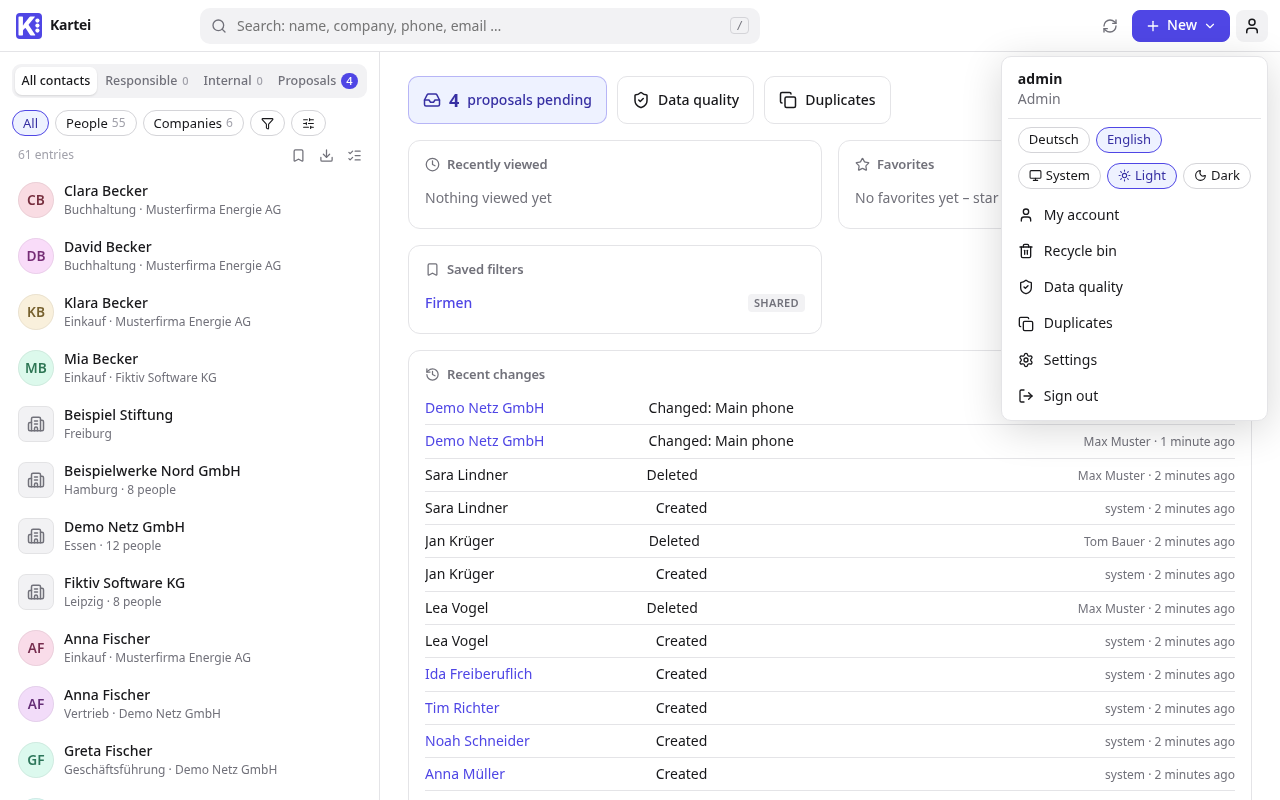
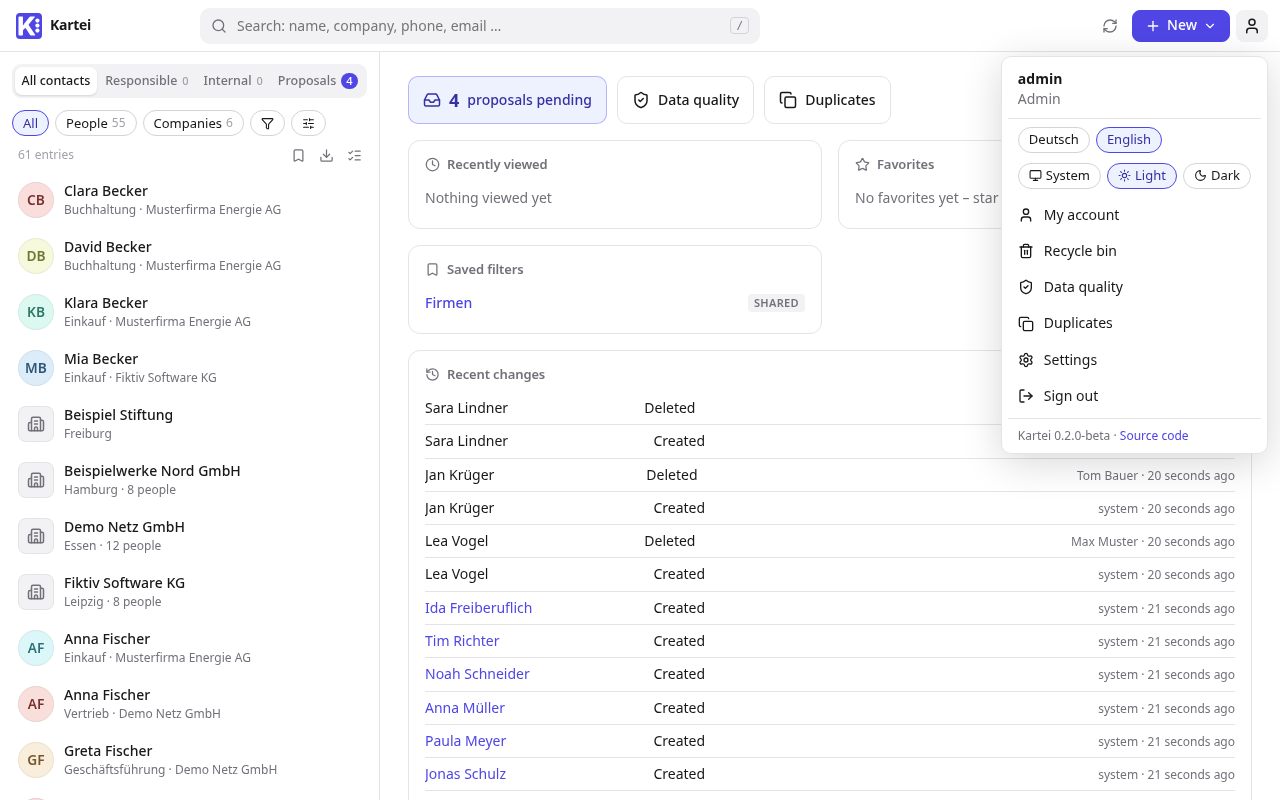
Version and source link in the user menu; upgrade test in CI; changelog for 0.2.0-beta (#8)

diff --git a/frontend/src/App.svelte b/frontend/src/App.svelte
@@ -274,6 +274,9 @@
             <a href="/settings/fields" onclick={() => document.getElementById('user-menu')?.hidePopover()}><Settings size={16} />{t('top.settings')}</a>
           {/if}
           <button onclick={() => store.logout()}><LogOut size={16} />{t('top.logout')}</button>
+          {#if store.about}
+            <div class="about">Kartei {store.about.version} · <a href={store.about.source} target="_blank" rel="noopener">{t('top.source')}</a></div>
+          {/if}
         </div>
       </div>
     </header>
@@ -478,6 +481,9 @@
   .save-row { display: flex; align-items: center; gap: 8px; justify-content: flex-end; }
   .save-row label { display: flex; align-items: center; gap: 6px; margin-right: auto; font-size: 13px; }
   .list { flex: 1; min-height: 0; }
+  .about { padding: 8px 10px 2px; border-top: 1px solid var(--border); margin-top: 4px; font-size: 12px; color: var(--muted); }
+  .about a { display: inline; width: auto; padding: 0; color: var(--accent); }
+  .about a:hover { background: none; text-decoration: underline; }
   .newprops { display: flex; flex-direction: column; gap: 2px; padding: 0 8px 6px; border-bottom: 1px solid var(--border); margin-bottom: 4px; }
   .newprops a { display: flex; align-items: center; gap: 8px; padding: 7px 10px; border-radius: 8px; color: var(--text); }
   .newprops a:hover, .newprops a.on { background: var(--panel-2); text-decoration: none; }

diff --git a/frontend/src/lib/store.svelte.ts b/frontend/src/lib/store.svelte.ts
@@ -27,6 +27,8 @@ interface Snapshot {
 class Store {
   status = $state<'loading' | 'login' | 'ready'>('loading')
   user = $state.raw<User | null>(null)
+  /** running version and source code (user menu), from the session */
+  about = $state.raw<{ version: string; source: string } | null>(null)
   defaultLang = $state<Lang>('de')
   fields = $state.raw<Field[]>([])
   /** field sections in their order */
@@ -97,7 +99,7 @@ class Store {
     // 1) render from cache immediately, 2) check session, 3) fetch deltas
     const cached = (await idbGet(CACHE_KEY).catch(() => undefined)) as Snapshot | undefined
     if (cached) this.apply(cached)
-    let session: { authenticated: boolean; default_language: Lang; user?: User }
+    let session: { authenticated: boolean; default_language: Lang; user?: User; version?: string; source?: string }
     try {
       session = await get('/api/session')
     } catch {
@@ -112,6 +114,7 @@ class Store {
       this.cursor = ''
     }
     this.user = session.user!
+    this.about = { version: session.version ?? '', source: session.source ?? '' }
     this.applyLang()
     await this.sync()
     this.status = 'ready'

diff --git a/frontend/src/i18n/de.ts b/frontend/src/i18n/de.ts
@@ -976,4 +976,5 @@ export default {
   'proposal.back': "Zur Startseite",
   'proposal.form_hint_new': "Der Kontakt wird nicht direkt angelegt, sondern einem Bearbeiter zur Freigabe vorgelegt.",
   'audit.type.proposal': "Vorschlag",
+  'top.source': "Quellcode",
 } as Record<string, string>

diff --git a/frontend/src/i18n/en.ts b/frontend/src/i18n/en.ts
@@ -976,4 +976,5 @@ export default {
   'proposal.back': "Back to the start page",
   'proposal.form_hint_new': "The contact is not created directly; it goes to a maintainer for approval.",
   'audit.type.proposal': "Proposal",
+  'top.source': "Source code",
 } as Record<string, string>

diff --git a/.github/upgrade-fingerprint.py b/.github/upgrade-fingerprint.py
@@ -1,0 +1,29 @@
+# Fingerprint of a Kartei database for the upgrade test (CI job "Upgrade from the latest release"):
+#   python manage.py shell < upgrade-fingerprint.py
+# Runs on the old release and, after the migrations, on the new code; both must print the same line.
+# Only uses what every release has, so the old image can run it too.
+import hashlib
+import json
+
+from django.contrib.auth.models import User
+from kartei.models import AuditEntry, FieldDef, Proposal, Record, Settings
+
+
+def digest(rows):
+    return hashlib.sha256(json.dumps(rows, sort_keys=True, default=str).encode()).hexdigest()[:16]
+
+
+s = Settings.get()
+print("FINGERPRINT " + json.dumps({
+    "records": Record.objects.count(),
+    "records_digest": digest(sorted(
+        [str(uid), kind, version, first, last, name, str(company), data, str(deleted)]
+        for uid, kind, version, first, last, name, company, data, deleted in Record.objects.values_list(
+            "uid", "kind", "version", "first_name", "last_name", "name", "company__uid", "data", "deleted_at"))),
+    "proposals": sorted([kind, status, str(uid)] for kind, status, uid in
+                        Proposal.objects.values_list("kind", "status", "record__uid")),
+    "users": sorted(User.objects.values_list("username", flat=True)),
+    "fields": sorted(FieldDef.objects.values_list("key", flat=True)),
+    "audit_entries": AuditEntry.objects.count(),
+    "settings": [s.default_language, s.review_mode, s.review_interval_months],
+}, sort_keys=True))

diff --git a/backend/kartei/tests.py b/backend/kartei/tests.py
@@ -8,7 +8,7 @@ from unittest import mock
 
 from django.contrib.auth.hashers import make_password
 from django.contrib.auth.models import User
-from django.test import TestCase
+from django.test import TestCase, override_settings
 from django.utils import timezone
 
 from pathlib import Path
@@ -432,6 +432,15 @@ class PostalCodeTests(ApiTestBase):
         csv_data = "ID;Vorname;Nachname;Firma;PLZ\nP-1;A;B;;01067\n".encode()
         import_test_csv(csv_data, dry_run=False)
         self.assertEqual(Record.objects.get(legacy_id="P-1").data["work_zip"], "01067")
+
+
+class SessionTests(ApiTestBase):
+    @override_settings(KARTEI_VERSION="9.9.9-test", KARTEI_SOURCE_URL="https://example.org/fork")
+    def test_version_and_source_only_when_signed_in(self):
+        self.assertNotIn("version", self.client.get("/api/session").json())
+        self.as_("read")
+        s = self.client.get("/api/session").json()
+        self.assertEqual((s["version"], s["source"]), ("9.9.9-test", "https://example.org/fork"))
 
 
 class UserFieldTests(ApiTestBase):

diff --git a/backend/config/settings.py b/backend/config/settings.py
@@ -62,6 +62,11 @@ TEMPLATES = [{
 }]
 
 # an empty DATABASE_URL counts as unset (dj_database_url would fall back to a dummy backend)
+# shown in the user menu: the release tag (set by the image build) and where the source code is (AGPL: forks that run
+# a modified version point this at their code)
+KARTEI_VERSION = os.environ.get("KARTEI_VERSION") or "dev"
+KARTEI_SOURCE_URL = os.environ.get("KARTEI_SOURCE_URL") or "https://github.com/undone37/Kartei"
+
 DATABASES = {"default": dj_database_url.parse(
     os.environ.get("DATABASE_URL") or f"sqlite:///{BASE_DIR / 'db.sqlite3'}", conn_max_age=600,
     conn_health_checks=True)}  # a reused connection is checked first (e.g. after a cluster failover)

diff --git a/backend/kartei/api.py b/backend/kartei/api.py
@@ -6,6 +6,7 @@ import uuid
 from datetime import timedelta
 from functools import wraps
 
+from django.conf import settings as dj
 from django.contrib.auth import authenticate, login, logout
 from django.contrib.auth.hashers import make_password
 from django.contrib.auth.models import User
@@ -168,7 +169,7 @@ def session(request):
     s = Settings.get()
     out = {"default_language": s.default_language, "authenticated": request.user.is_authenticated}
     if request.user.is_authenticated:
-        out["user"] = ser_user(request.user)
+        out |= {"user": ser_user(request.user), "version": dj.KARTEI_VERSION, "source": dj.KARTEI_SOURCE_URL}
     return JsonResponse(out)
 
 

diff --git a/.github/upgrade-smoke.py b/.github/upgrade-smoke.py
@@ -1,0 +1,9 @@
+# After the upgrade test's migrations: the new code serves the old data (python manage.py shell < upgrade-smoke.py)
+from django.test import Client
+
+c = Client(HTTP_HOST="localhost")
+assert c.post("/api/login", {"username": "mmuster", "password": "demo12345"}, content_type="application/json").status_code == 200
+b = c.get("/api/bootstrap").json()
+assert len(b["records"]) > 50 and len(b["proposals"]) >= 3, (len(b["records"]), len(b["proposals"]))
+assert c.get(f"/api/records/{b['records'][0]['uid']}").status_code == 200
+print("SMOKE OK", len(b["records"]), "records", len(b["proposals"]), "proposals")

diff --git a/README.md b/README.md
@@ -39,7 +39,7 @@ cp .env.example .env        # set SECRET_KEY, POSTGRES_PASSWORD, ADMIN_USERNAME/
 docker compose up -d --build
 ```
 
-Instead of building, you can use the released images: set `KARTEI_IMAGE=ghcr.io/undone37/kartei:0.1.0-beta` in `.env`, then `docker compose pull && docker compose up -d --no-build` (relay: `RELAY_IMAGE=ghcr.io/undone37/kartei-relay:0.1.0-beta`).
+Instead of building, you can use the released images: set `KARTEI_IMAGE=ghcr.io/undone37/kartei:0.2.0-beta` in `.env`, then `docker compose pull && docker compose up -d --no-build` (relay: `RELAY_IMAGE=ghcr.io/undone37/kartei-relay:0.2.0-beta`).
 
 To use a dedicated PostgreSQL server or cluster instead of the bundled database container, set `DATABASE_URL` and use `compose.external-db.yaml`; the administrator manual (Installation) has the details.
 
@@ -88,7 +88,7 @@ cd frontend && npm test && npm run check
 cd frontend && npm run test:e2e   # browser tests against a running server with seed_demo data (once: npx playwright install chromium)
 ```
 
-GitHub Actions runs the backend tests on SQLite and PostgreSQL 18, the frontend checks, the browser tests and the Docker build on every push, keeps SBOMs (SPDX and CycloneDX) of the source tree and both images as a build artifact, and scans both images for known vulnerabilities (Grype; results under *Security → Code scanning*; a critical vulnerability with an available fix fails the build). The images of the latest release are scanned again every day. Dependabot proposes weekly updates for Python, npm, the Docker base images and the actions; it stays on the Django LTS and on the newest Python that Django supports.
+GitHub Actions runs the backend tests on SQLite and PostgreSQL 18, the frontend checks, the browser tests, an upgrade test (the latest release's image with sample data, then this version's migrations: the data must be unchanged) and the Docker build on every push, keeps SBOMs (SPDX and CycloneDX) of the source tree and both images as a build artifact, and scans both images for known vulnerabilities (Grype; results under *Security → Code scanning*; a critical vulnerability with an available fix fails the build). The images of the latest release are scanned again every day. Dependabot proposes weekly updates for Python, npm, the Docker base images and the actions; it stays on the Django LTS and on the newest Python that Django supports.
 
 ### Releases
 

diff --git a/CHANGELOG.md b/CHANGELOG.md
@@ -4,8 +4,16 @@ All notable changes to Kartei are listed here. The format follows [Keep a Change
 
 ## [Unreleased]
 
+## [0.2.0-beta] – 2026-10-25
+
+Second beta: read-only users can propose new contacts, Kartei can use a dedicated PostgreSQL server or cluster, images are also built for ARM64, and large directories load faster.
+
+**Updating from 0.1.0-beta:** back up the database, then either set `KARTEI_IMAGE=ghcr.io/undone37/kartei:0.2.0-beta` and run `docker compose pull && docker compose up -d --no-build`, or `git pull && docker compose up -d --build`. The database is migrated automatically on start; nothing else has to be changed.
+
 ### Added
 
+- The user menu shows the running version and a link to the source code (`KARTEI_SOURCE_URL` for modified versions).
+- An upgrade test in CI: the latest release's image with sample data, then this version's migrations; the data must stay unchanged.
 - Read-only users can propose new persons and companies (*New → Propose new person/company*); maintainers create, adjust or reject them from the list *Proposals*. Included in the proposal emails and the audit log.
 - Support for a dedicated PostgreSQL server or cluster instead of the bundled database container (`compose.external-db.yaml`), documented in the administrator manual with TLS, cluster, PgBouncer and migration notes.
 - End-to-end browser tests (Playwright) that run in CI on every push and pull request.
@@ -35,5 +43,6 @@ First public beta.
 - German and English, light and dark theme, installable as an app.
 - Images on the GitHub container registry, manuals as PDF, SBOMs and the OpenAPI description attached to the release.
 
-[Unreleased]: https://github.com/undone37/Kartei/compare/v0.1.0-beta...HEAD
+[Unreleased]: https://github.com/undone37/Kartei/compare/v0.2.0-beta...HEAD
+[0.2.0-beta]: https://github.com/undone37/Kartei/compare/v0.1.0-beta...v0.2.0-beta
 [0.1.0-beta]: https://github.com/undone37/Kartei/releases/tag/v0.1.0-beta

diff --git a/CONTRIBUTING.md b/CONTRIBUTING.md
@@ -37,7 +37,7 @@ The [README](README.md#development) has the full setup. In short: Python 3.14 wi
 - **Two languages:** every UI string exists in German and English (`frontend/src/i18n/de.ts` and `en.ts`); a test checks that both have the same keys. The API returns error codes, the frontend translates them.
 - **Configurable in the UI:** settings belong in the database and the *Settings* area, not in environment variables or code. Environment variables are only for bootstrap values (database, secret key, hosts, first admin).
 - **No customer specifics:** no company names, host names, paths or field sets of a particular installation in code, examples or documentation. Field sets are JSON files in `examples/`.
-- **Database migrations:** add a new migration for model changes (`manage.py makemigrations kartei`); never edit or squash migrations that are part of a release.
+- **Database migrations:** add a new migration for model changes (`manage.py makemigrations kartei`); never edit or squash migrations that are part of a release. CI's upgrade test runs them on the latest release's data.
 - **Audit and safety:** every change to contacts and settings is written to the audit log; anything that deletes asks for confirmation; secrets are stored encrypted or hashed and never returned by the API.
 - **Changelog:** add a line under *Unreleased* in [CHANGELOG.md](CHANGELOG.md) for every change users or administrators notice; it becomes the release text.
 - **Documentation:** user-facing changes update the manuals in `manuals/en` *and* `manuals/de`; API changes update `docs/API.md` and `docs/openapi.yaml`. If a screen changes, regenerate the screenshots (see the README, *Screenshots for the manuals*).
